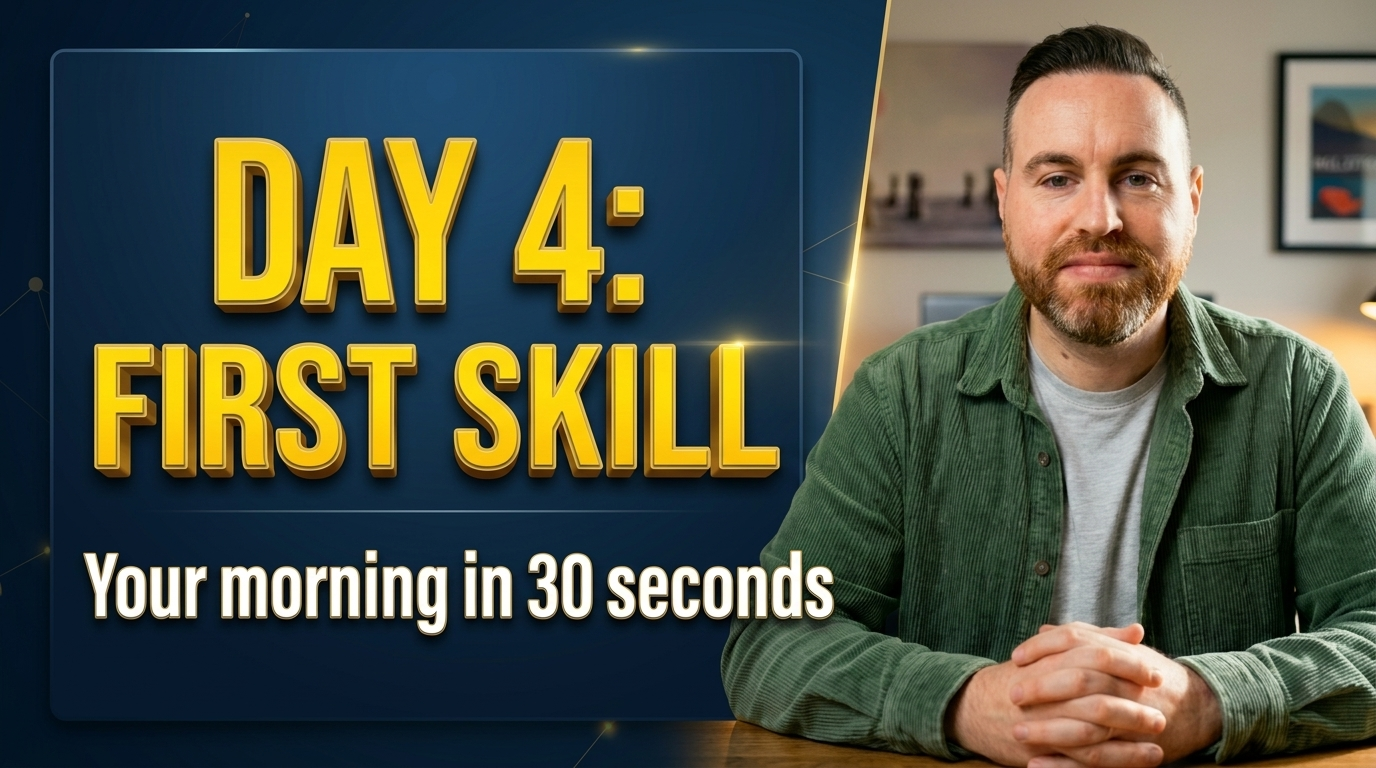
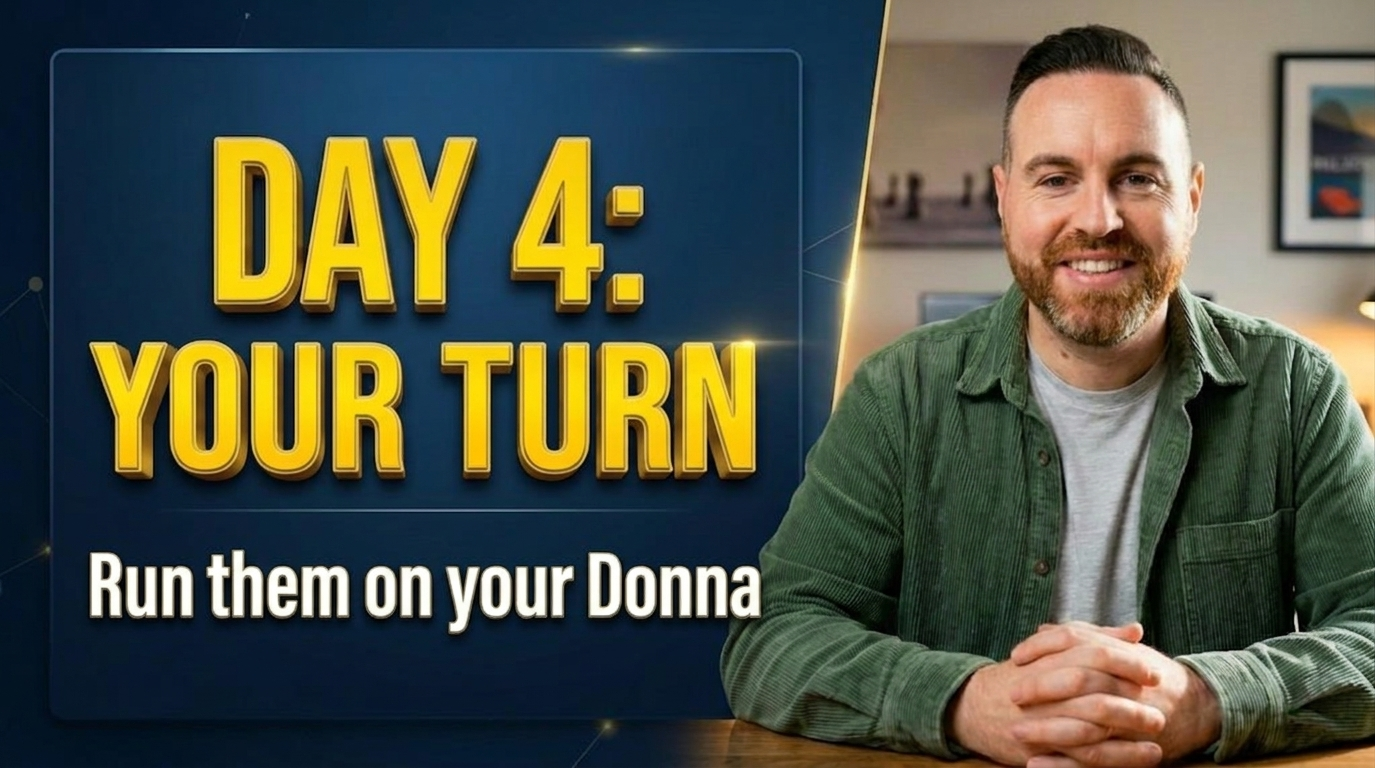
Day 4 Lesson 2: rename to Your Turn + new thumbnails
Lesson 2 is actually students running the skills themselves on their
own Donna (per recorded video content), not Jay demoing 5 skills.
Renamed from 'The Skill Library (5 quickfire)' to 'Your Turn: Run Them
on Your Donna' across portal and overview.

New thumbnails generated via nano-banana:
- DAY4-LESSON2.png: YOUR TURN / Run them on your Donna
- DAY4-LESSON3.png: MAKE IT YOURS / Customize + build more
  (previous had 'Customize + your Daily 4' which was removed)

diff --git a/donna-challenge/index.html b/donna-challenge/index.html
@@ -2983,8 +2983,8 @@ Don't send the email or book the calendar yet. Show me everything for approval f
           <p style="color:var(--text);line-height:1.9;font-size:0.95em"><strong style="color:var(--orange)">🎬 Lesson 1: Skills + Your First Skill</strong></p>
           <p style="color:var(--dim);line-height:1.7;font-size:0.85em;margin-right:18px">What a Skill is, where they live, and running the headline skill: <code style="background:var(--glass);padding:1px 5px;border-radius:3px">/morning-briefing</code>.</p>
 
-          <p style="color:var(--text);line-height:1.9;font-size:0.95em;margin-top:12px"><strong style="color:var(--orange)">🎬 Lesson 2: The Skill Library</strong></p>
-          <p style="color:var(--dim);line-height:1.7;font-size:0.85em;margin-right:18px">5 quickfire skill demos to feel the range.</p>
+          <p style="color:var(--text);line-height:1.9;font-size:0.95em;margin-top:12px"><strong style="color:var(--orange)">🎬 Lesson 2: Your Turn . Run Them on Your Donna</strong></p>
+          <p style="color:var(--dim);line-height:1.7;font-size:0.85em;margin-right:18px">Time to actually use Donna. Run 5+ skills on your real data.</p>
 
           <p style="color:var(--text);line-height:1.9;font-size:0.95em;margin-top:12px"><strong style="color:var(--orange)">🎬 Lesson 3: Make It Yours</strong></p>
           <p style="color:var(--dim);line-height:1.7;font-size:0.85em;margin-right:18px">Open a skill file, customize it with one business rule, and learn how to build or import more.</p>
@@ -3152,7 +3152,7 @@ Don't send the email or book the calendar yet. Show me everything for approval f
         <div style="display:flex;align-items:baseline;gap:10px;margin-bottom:6px">
           <span style="background:var(--orange);color:#fff;padding:3px 10px;border-radius:6px;font-size:0.78em;font-weight:700">🎬 LESSON 2</span>
         </div>
-        <h3 style="margin-bottom:14px"><span class="sec-icon">⚡</span> The Skill Library (5 quickfire)</h3>
+        <h3 style="margin-bottom:14px"><span class="sec-icon">⚡</span> Your Turn: Run Them on Your Donna</h3>
 
         <div class="video-container" style="margin-bottom:20px;background-image:url('thumbnails/DAY4-LESSON2.png');background-size:cover;background-position:center;background-repeat:no-repeat">
           <div class="play-icon" style="background:rgba(0,0,0,0.55);box-shadow:0 8px 32px rgba(0,0,0,0.4)"></div>
